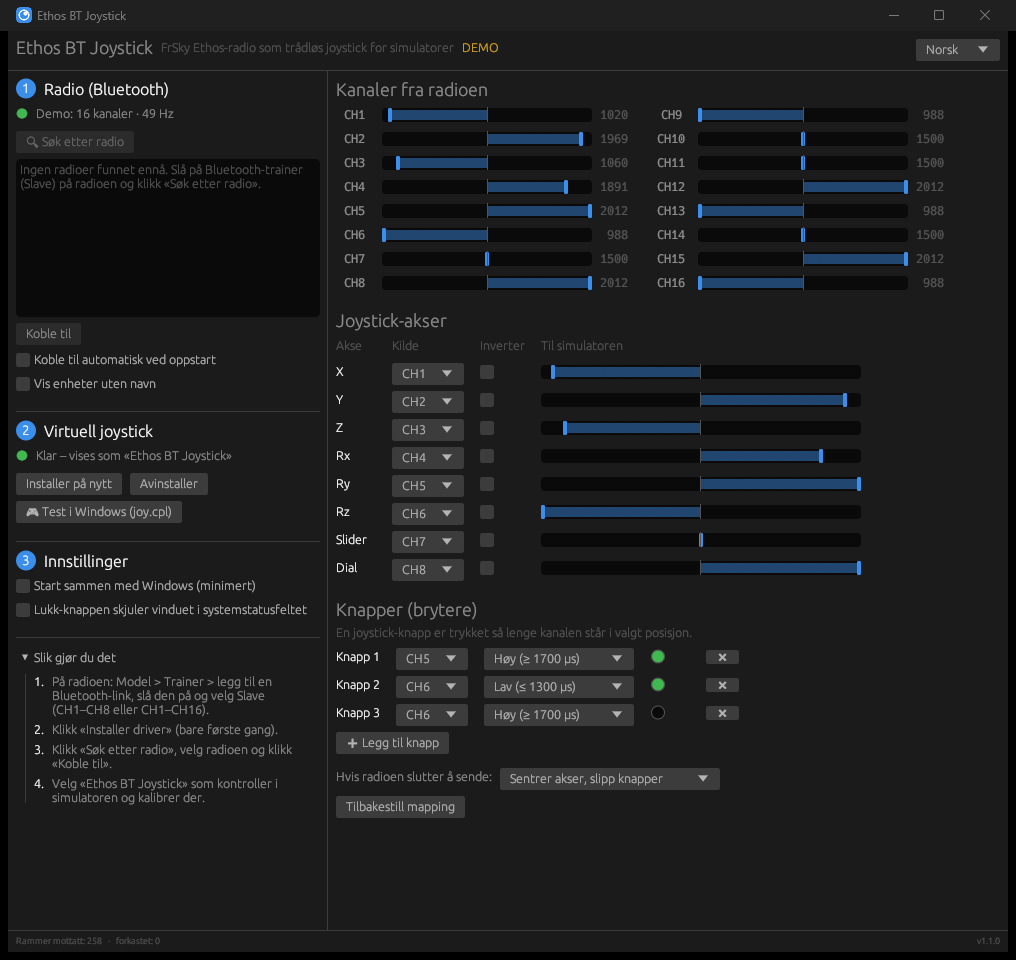
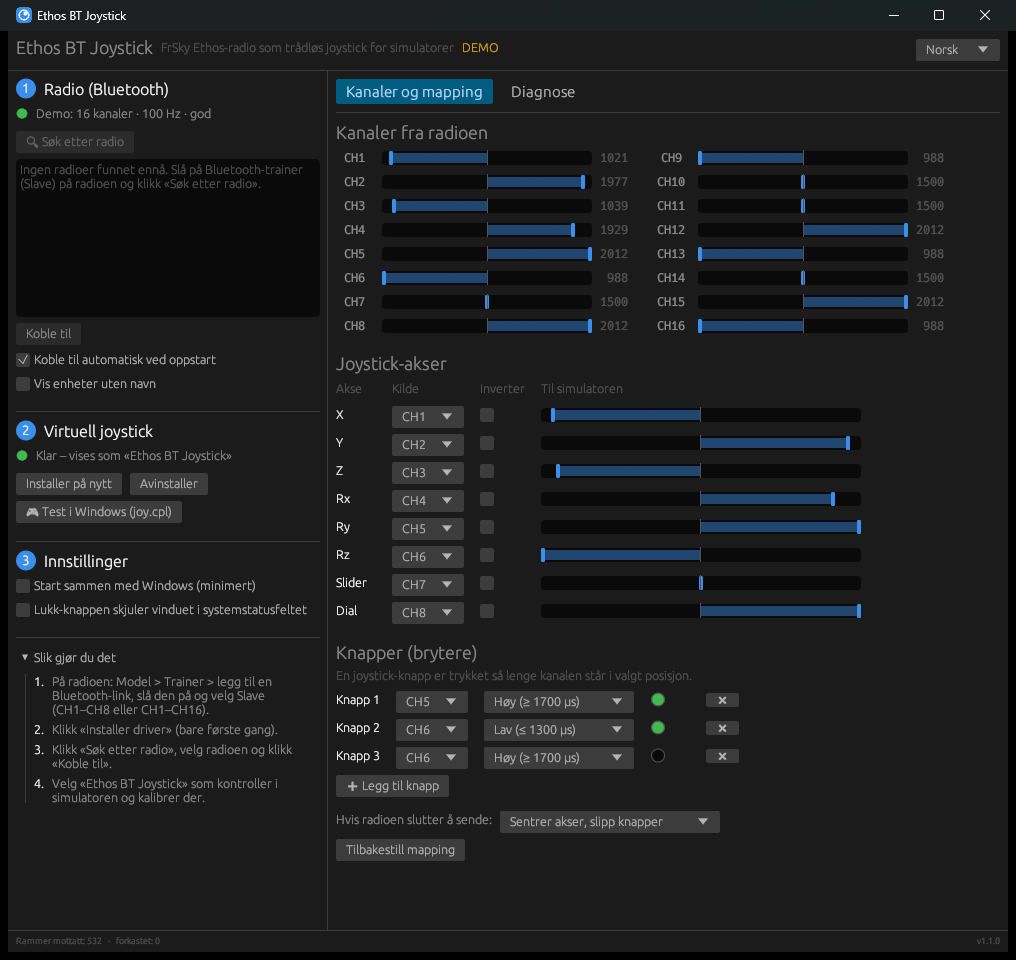
Docs: Diagnostics screenshots, issue forms
- New screenshots of both tabs, English and Norwegian, taken in demo mode.
- Issue forms for bug reports (with a field for the text from "Copy
  diagnostics") and feature requests; security problems are pointed to
  private reporting.
- The troubleshooting sections link to the issue forms.

diff --git a/README.no.md b/README.no.md
@@ -47,6 +47,8 @@ kobles det til igjen av seg selv.
 Fanen **Diagnose** viser hvor god Bluetooth-forbindelsen er, og hjelper deg å finne ut
 hvorfor en forbindelse oppfører seg dårlig:
 
+![Fanen Diagnose](docs/diagnose.png)
+
 - **Kvalitet** – god, svak eller dårlig, vurdert ut fra *forsinkelsen i snitt*: hvor
   gamle de nyeste spakverdiene er i gjennomsnitt. Bluetooth leverer rammene i klumper,
   så dette sier mer om responsen enn oppdateringsfrekvensen gjør. Samme vurdering
@@ -176,6 +178,10 @@ tillegg et utkast til release med zip-filen vedlagt.
   «Installer på nytt». Koden er den samme som Enhetsbehandling viser.
 - **Simulatoren finner ikke joysticken:** sjekk først med «Test i Windows (joy.cpl)».
   Noen simulatorer må startes på nytt etter at driveren er installert.
+
+Står du fortsatt fast? [Opprett en sak (issue)](https://github.com/bliatun-code/EthosBtJoystick/issues/new/choose)
+og lim inn teksten fra **Kopier diagnostikk** i fanen Diagnose. Skjemaet er på engelsk,
+men du kan gjerne skrive på norsk.
 
 ## Begrensninger
 

diff --git a/README.md b/README.md
@@ -48,6 +48,8 @@ connection drops, it reconnects by itself.
 The **Diagnostics** tab shows how good the Bluetooth link is, and helps to find out why
 a connection misbehaves:
 
+![The Diagnostics tab](docs/diagnostics.png)
+
 - **Link quality** – good, weak or poor, judged from the *average delay*: how old the
   newest stick positions are on average. Bluetooth delivers the frames in bursts, so
   this says more about the response than the frame rate does. The same verdict is
@@ -180,6 +182,9 @@ also creates a draft release with the zip attached.
   “Reinstall”. The code is the same one Device Manager shows.
 - **The simulator does not find the joystick:** check with “Test in Windows (joy.cpl)”
   first. Some simulators have to be restarted after the driver has been installed.
+
+Still stuck? [Open an issue](https://github.com/bliatun-code/EthosBtJoystick/issues/new/choose)
+and paste the text from **Copy diagnostics** on the Diagnostics tab.
 
 ## Limitations
 
